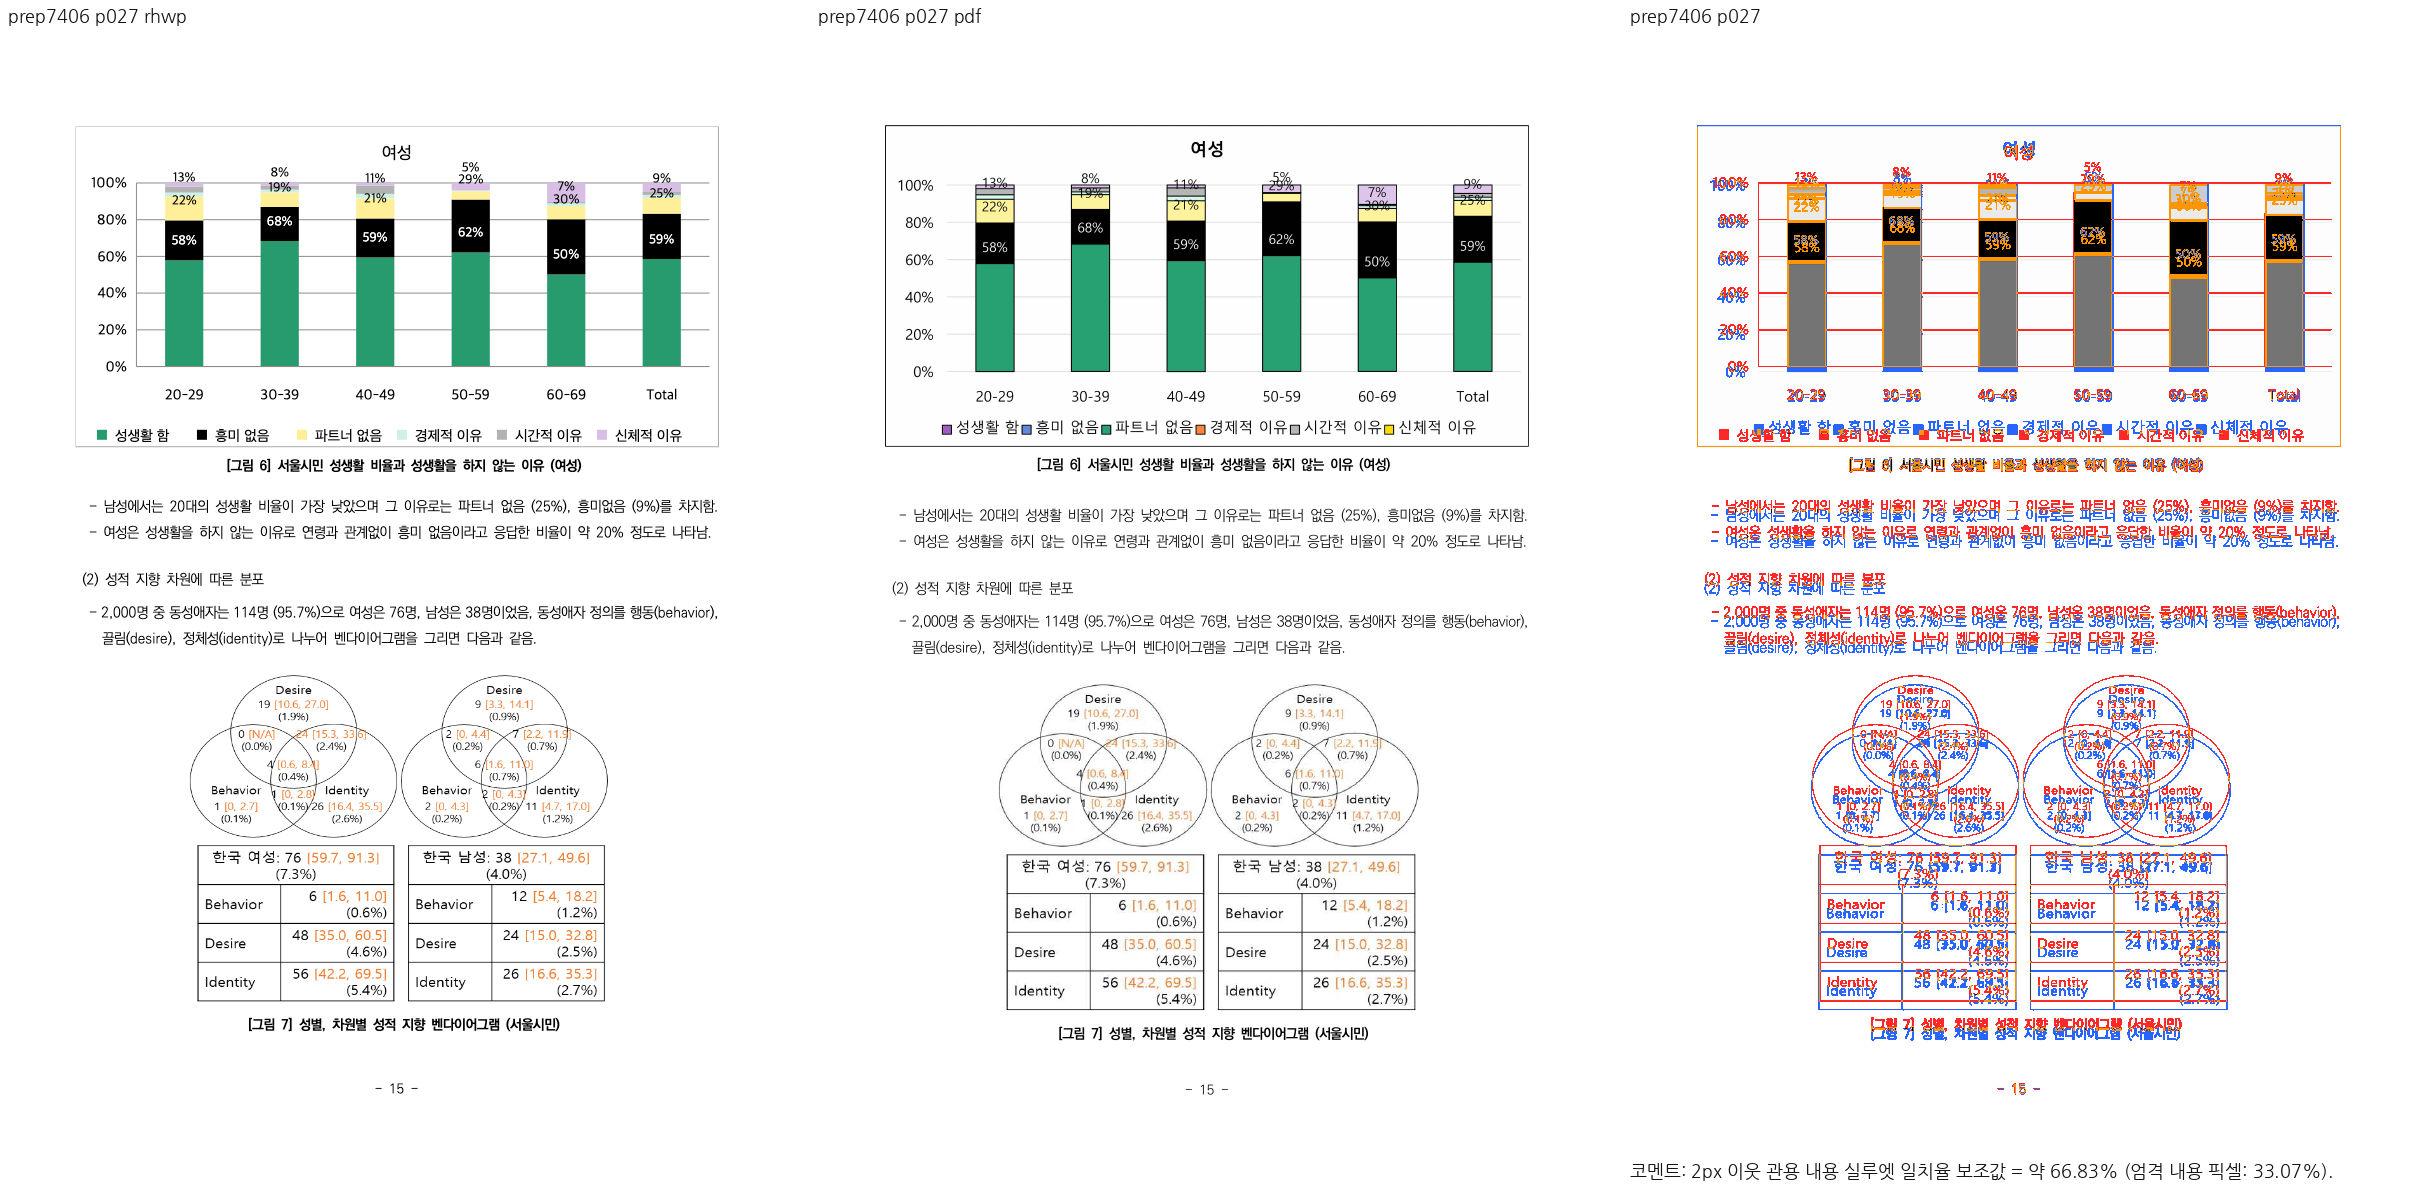
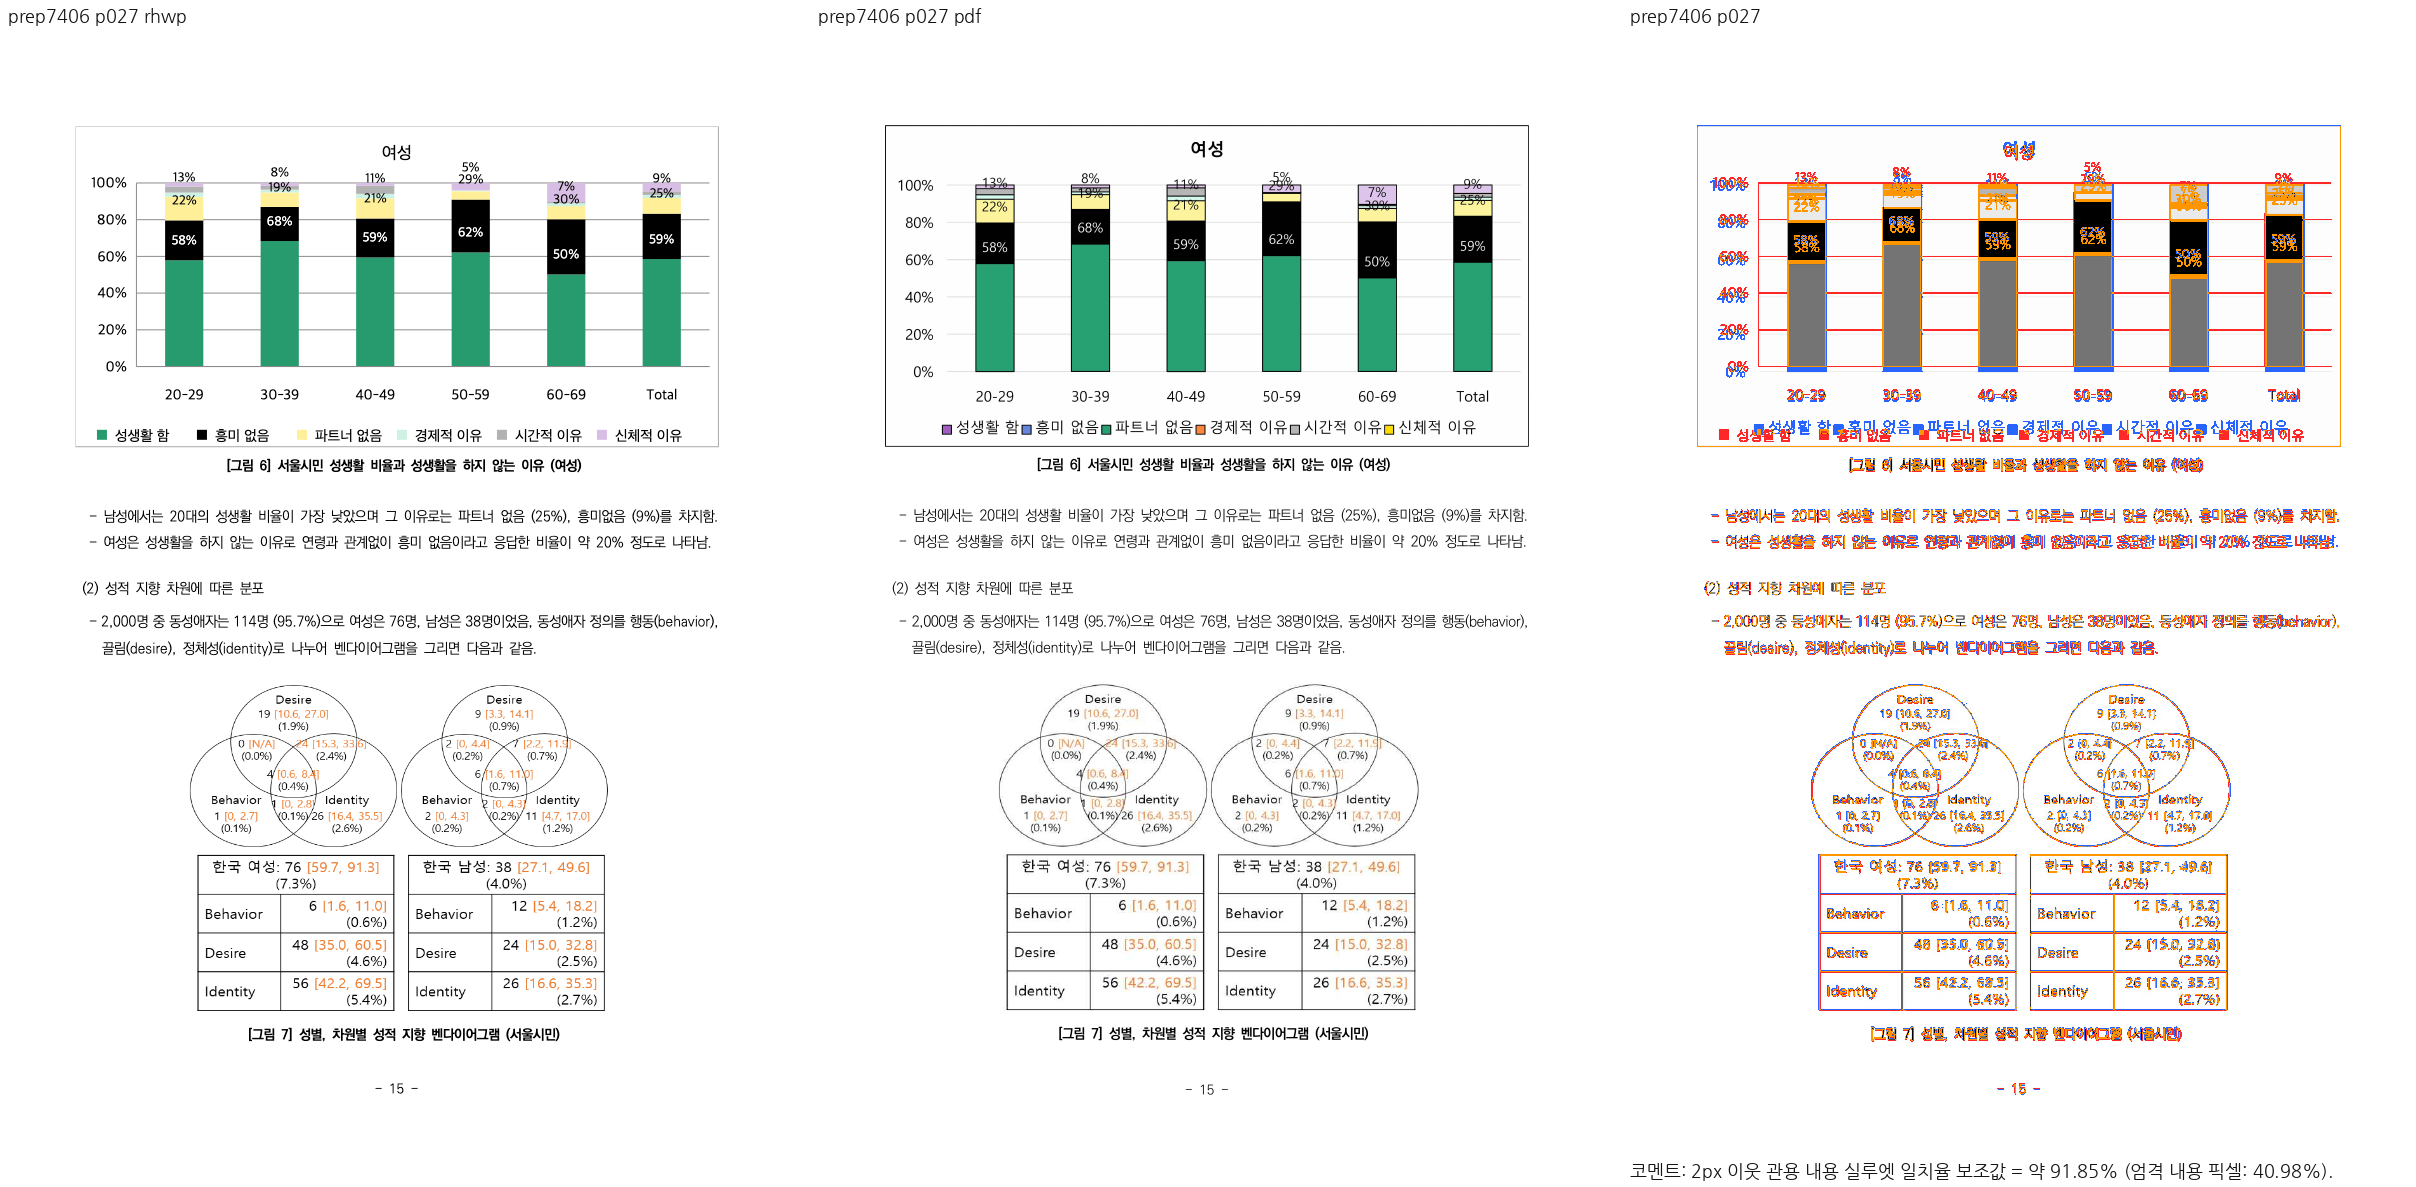
PR #7406 페이지 수 재검토 규칙과 차트 뒤 줄간격 보정
같은 원본과 출력 환경에서 전체 페이지 수가 다르면 선택 페이지의 시각 점수가 통과해도 재검토하도록 기여·검증 지침을 갱신한다.

저장 HWPX 도형 줄의 다음 vpos가 줄간격을 증명하는 경우 캡션 뒤 본문 배치에 반영하고, 수정 전 실패·수정 후 통과한 회귀 검사와 27쪽 시각 증적을 추가한다.

Changed region(s): [[0.714, 0.4052, 0.9623, 0.8728], [0.031, 0.4052, 0.3104, 0.8728], [0.9313, 0.9663, 0.9623, 0.9975]]

diff --git a/src/renderer/layout.rs b/src/renderer/layout.rs
@@ -10370,21 +10370,20 @@ impl LayoutEngine {
                                 };
                                 let shape_bottom = para_start + sb_applied + effective_h;
                                 if shape_bottom > y_offset {
-                                    // [#6665] HWP3 계보 휴리스틱은 2024 저장본도
-                                    // 포함한다. 계보 전체를 배제하지 않고, 빈 도형 줄의
-                                    // 다음 저장 vpos가 lh + ls 전진을 증명할 때만 ls를
-                                    // 복원한다. 원본 HWP3/HWPX와 저장 사다리가 다른
-                                    // 문단은 유지한다. 바닥값 판정에는 ls를 넣지 않는다.
+                                    // [#6665, #7406] 저장 줄 뒤의 다음 vpos가
+                                    // lh + ls 전진을 증명할 때만 도형 높이 바닥값에도
+                                    // 꼬리 ls를 복원한다. HWPX OLE 차트의 캡션 다음
+                                    // 본문도 이 경로를 사용한다. 바닥값 판정에는 ls를
+                                    // 넣지 않아 순수 개체 줄의 기존 소유권은 유지한다.
                                     // lh == 도형 프레임 높이인 순수 개체 줄(#1116)은
                                     // paragraph_layout의 높이 접힘과 짝을 이뤄 ls 없는
                                     // 바닥값이 전진량을 소유한다. 프레임보다 큰 저장
                                     // 줄 상자를 복원할 때만 별도의 꼬리 ls를 더한다.
                                     let profile = self.profile.get();
-                                    let stored_shape_line = (profile
-                                        .hwp5_stored_pagination_layout()
-                                        || profile.hwp3_layout())
-                                        && !profile.hwp3_native_layout()
-                                        && !profile.hwpx_stored_layout()
+                                    let stored_shape_line = (profile.hwpx_stored_layout()
+                                        || ((profile.hwp5_stored_pagination_layout()
+                                            || profile.hwp3_layout())
+                                            && !profile.hwp3_native_layout()))
                                         && para.text.chars().all(|c| {
                                             c.is_whitespace() || c <= '\u{001F}' || c == '\u{FFFC}'
                                         });

diff --git a/tests/cases/issue_7390_prep_table_rowbreak.rs b/tests/cases/issue_7390_prep_table_rowbreak.rs
@@ -121,6 +121,25 @@ fn prep_kopub_paragraph_does_not_orphan_final_syllable() {
 }
 
 #[test]
+fn prep_chart_caption_preserves_following_saved_line_spacing() {
+    let bytes =
+        std::fs::read(Path::new(env!("CARGO_MANIFEST_DIR")).join(SAMPLE)).expect("PrEP 정식 원본");
+    let core = DocumentCore::from_bytes(&bytes).expect("PrEP 로드");
+    let page = core.build_page_render_tree(26).expect("물리 27쪽");
+    let caption =
+        line_top_containing(&page.root, "[그림 6] 서울시민 성생활 비율").expect("여성 차트 캡션");
+    let following =
+        line_top_containing(&page.root, "남성에서는 20대의 성생활 비율").expect("차트 뒤 본문");
+    // 한컴 2024 PDF: 캡션 y=426.7px, 뒤 본문 y=476.7px. 저장 chart
+    // LineSeg의 trailing spacing 720HU(9.6px)가 두 글줄 사이에 들어간다.
+    assert!((caption - 426.7).abs() <= 1.5, "캡션 위치: {caption:.1}");
+    assert!(
+        (following - 476.7).abs() <= 1.5,
+        "차트 뒤 본문은 저장 줄간격을 점유해야 한다: {following:.1}"
+    );
+}
+
+#[test]
 fn prep_footnote_four_starts_on_next_physical_page() {
     let bytes =
         std::fs::read(Path::new(env!("CARGO_MANIFEST_DIR")).join(SAMPLE)).expect("PrEP 정식 원본");

diff --git a/CLAUDE.md b/CLAUDE.md
@@ -76,6 +76,9 @@
   90% 미만이거나 측정 불가이면 새 PR을 만들지 않고 이미 열린 PR은 승인·통합하지 않는다. 기여자가 자기 branch에서
   원인을 재검토·수정하고 새 head에서 gate를 통과한 뒤에만 PR을 생성·갱신한다. reviewer는 보류를 기록하며
   메인터너 보정으로 대신하지 않는다.
+  같은 원본·출력 환경의 한컴 PDF와 rhwp **전체 페이지 수**가 다르면 영향 쪽의 점수가
+  통과해도 PR을 재검토한다. 누락·추가된 쪽의 시작 경계와 앞뒤 내용을 확인해 원인을 고치고,
+  새 head의 페이지 수와 시각 증적을 다시 검증한다. 글꼴 예외는 페이지 수 차이를 면제하지 않는다.
   예외는 양쪽 실제 글꼴이 완전히 다르다는 증거 파일을 `--font-mismatch-evidence`로 남긴 경우뿐이며,
   그 전 PDF와 rhwp의 표 괘선·문단 시작·그림 경계를 같은 좌표계에서 대조한다. 위치 차이가
   있으면 글꼴 예외로 승인하지 않고 배치를 고친 뒤 다시 캡처한다(#7359 p14).

diff --git a/mydocs/manual/verification/visual_sweep_guide.md b/mydocs/manual/verification/visual_sweep_guide.md
@@ -39,6 +39,11 @@ non-zero로 끝내며, manifest의 `pr_review_gate.status`를 `re_review_require
 보정으로 그 변경을 대신하지 않는다. 이 규칙은 지표를
 올리기 위해 tolerance·DPI·대상 영역을 사후 변경하는 근거가 아니다.
 
+같은 원본·출력 환경의 기준 PDF와 rhwp **전체 페이지 수**가 다르면 선택 페이지의 실루엣 게이트가
+통과하더라도 PR을 재검토한다. `--page`/`--pages`로 선택한 쪽의 산출물 개수는 전체 페이지 수의
+증거가 아니다. 누락·추가된 쪽의 시작 경계와 앞뒤 내용을 확인하고 새 head에서 다시 비교한다.
+글꼴 예외도 페이지 수 차이를 면제하지 않는다.
+
 예외는 한컴 PDF와 rhwp raster에 실제로 적용된 글꼴이 완전히 다르다는 사실을 확인한 경우뿐이다. 이때도
 `--font-mismatch-evidence <UTF-8 파일>`을 지정해 각 쪽의 원래/대체 font family, 확인 방법과
 representative PNG를 기록한 증거 파일의 경로·SHA-256을 manifest에 남긴다. 단순 anti-aliasing, 작은
